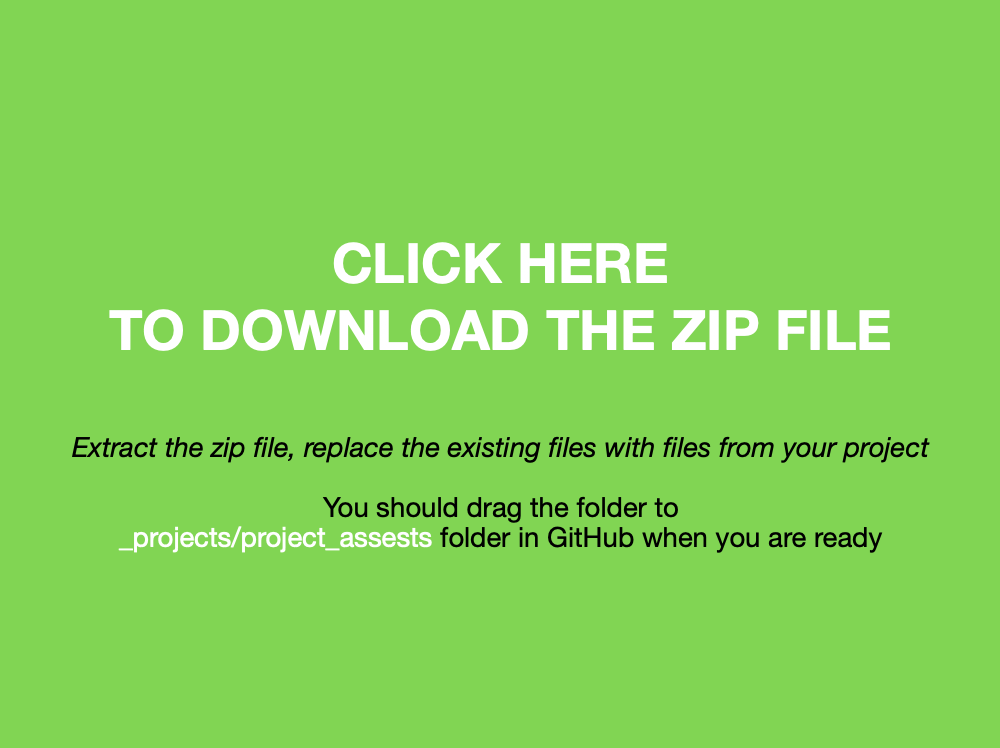
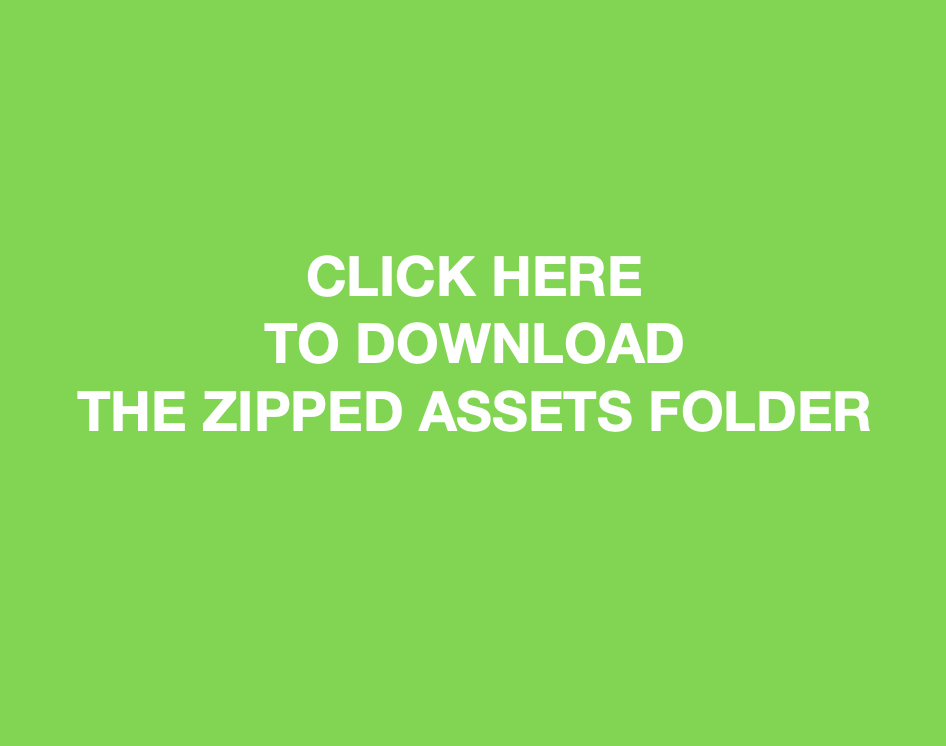
testcreate

Changed region(s): [[0.092, 0.3083, 0.889, 0.4933], [0.0613, 0.5241, 0.9503, 0.6166], [0.1226, 0.6475, 0.889, 0.7399]]

diff --git a/testcreate.html b/testcreate.html
@@ -8,10 +8,17 @@
 <body style="align-items:center;">
 
 <div style="width:100%;">
-<div style="border: 3px solid #f11;width: 50%; margin:0px auto; text-align: center;"> <h2>Markdown Creator</h2></div>
-
-
-<div style="border: 3px solid #111; display:flex; margin:auto;max-width:1200px">
+<div style="background-color:#5fd938;width: 50%; margin:0px auto; text-align: center;"> <h2>Markdown Creator</h2></div>
+<div style=" background-color:#5fd938;padding-top:30px; padding-bottom: 30px;;max-width:1200px; margin:0px auto; text-align: center;">
+To create a project page in ceeoinnovations site you will need two things. </br></br> 1. <b> project markdown file </b> </br> 2. <b>project assets folder </b></br>
+</div>
+</br>
+<div style=" background-color:#aaaaaa; padding-top:30px; padding-bottom: 30px;;max-width:1200px; margin:0px auto; text-align: left;">
+<h2 style="padding-left:20px;"> Creating markdown file </h2>
+<p style="padding-left:20px;">Fill out the form below with accurate information and hit DOWNLOAD MARKDOWN button.
+	A partially filled markdown file will download.</p>
+</div>
+<div style=" display:flex; margin:auto;max-width:1200px">
 	<div style="flex: 1;max-width:800px;padding: 20px;border: 2px solid red;">
 		<div class="all">
 			<form style="text-align: left; align-items: left; margin:10px;" id="form" onsubmit="return false;">
@@ -72,12 +79,26 @@
 			<h2 style="text-align: center;">Project Page</h2>
 			<img style="width: 100%; max-width: 400px"	alt="Thumbnail" src="post.png">
 
-			<a  href="project.zip" download="project"> <img style="width: 100%; max-width: 400px;" src="download.png" alt="download"></a>
 
 		</div>
 	</div>
 </div>
 
+</br>
+<div style=" background-color:#aaaaaa; padding-top:30px; padding-bottom: 30px;;max-width:1200px; margin:0px auto; text-align: left;">
+	<h2 style="padding-left:20px;"> Project Assets folder </h2>
+	<p style="padding-left:20px;">
+	<ol>
+		<li> Download the zip file by clicking the image below.</li>
+		<li> Extract the zip file and rename the folder with your <i>Project Title</i>.</li>
+		<li> Replace the existing files with files from your project.</li>
+		<li> Add your assets (images, pdfs, etc.) to the folder.</li>
+		<li> Add the folder to _projects/project_assests folder in GitHub. Simply go to tuftsceeo github, and open projects_assests folder inside _projects folder and click and drag the folder to the GitHub WebUI. </li>
+	</ol></p>
+</div>
+<div style=" padding-top:30px; padding-bottom: 30px;;max-width:1200px; margin:auto; align-items:center;border: 2px solid red;">
+	<a  href="project.zip" download="project"> <img style="width: 100%; max-width: 400px;" src="download.png" alt="download"></a>
+</div>
 
 
 <script type="text/javascript">
